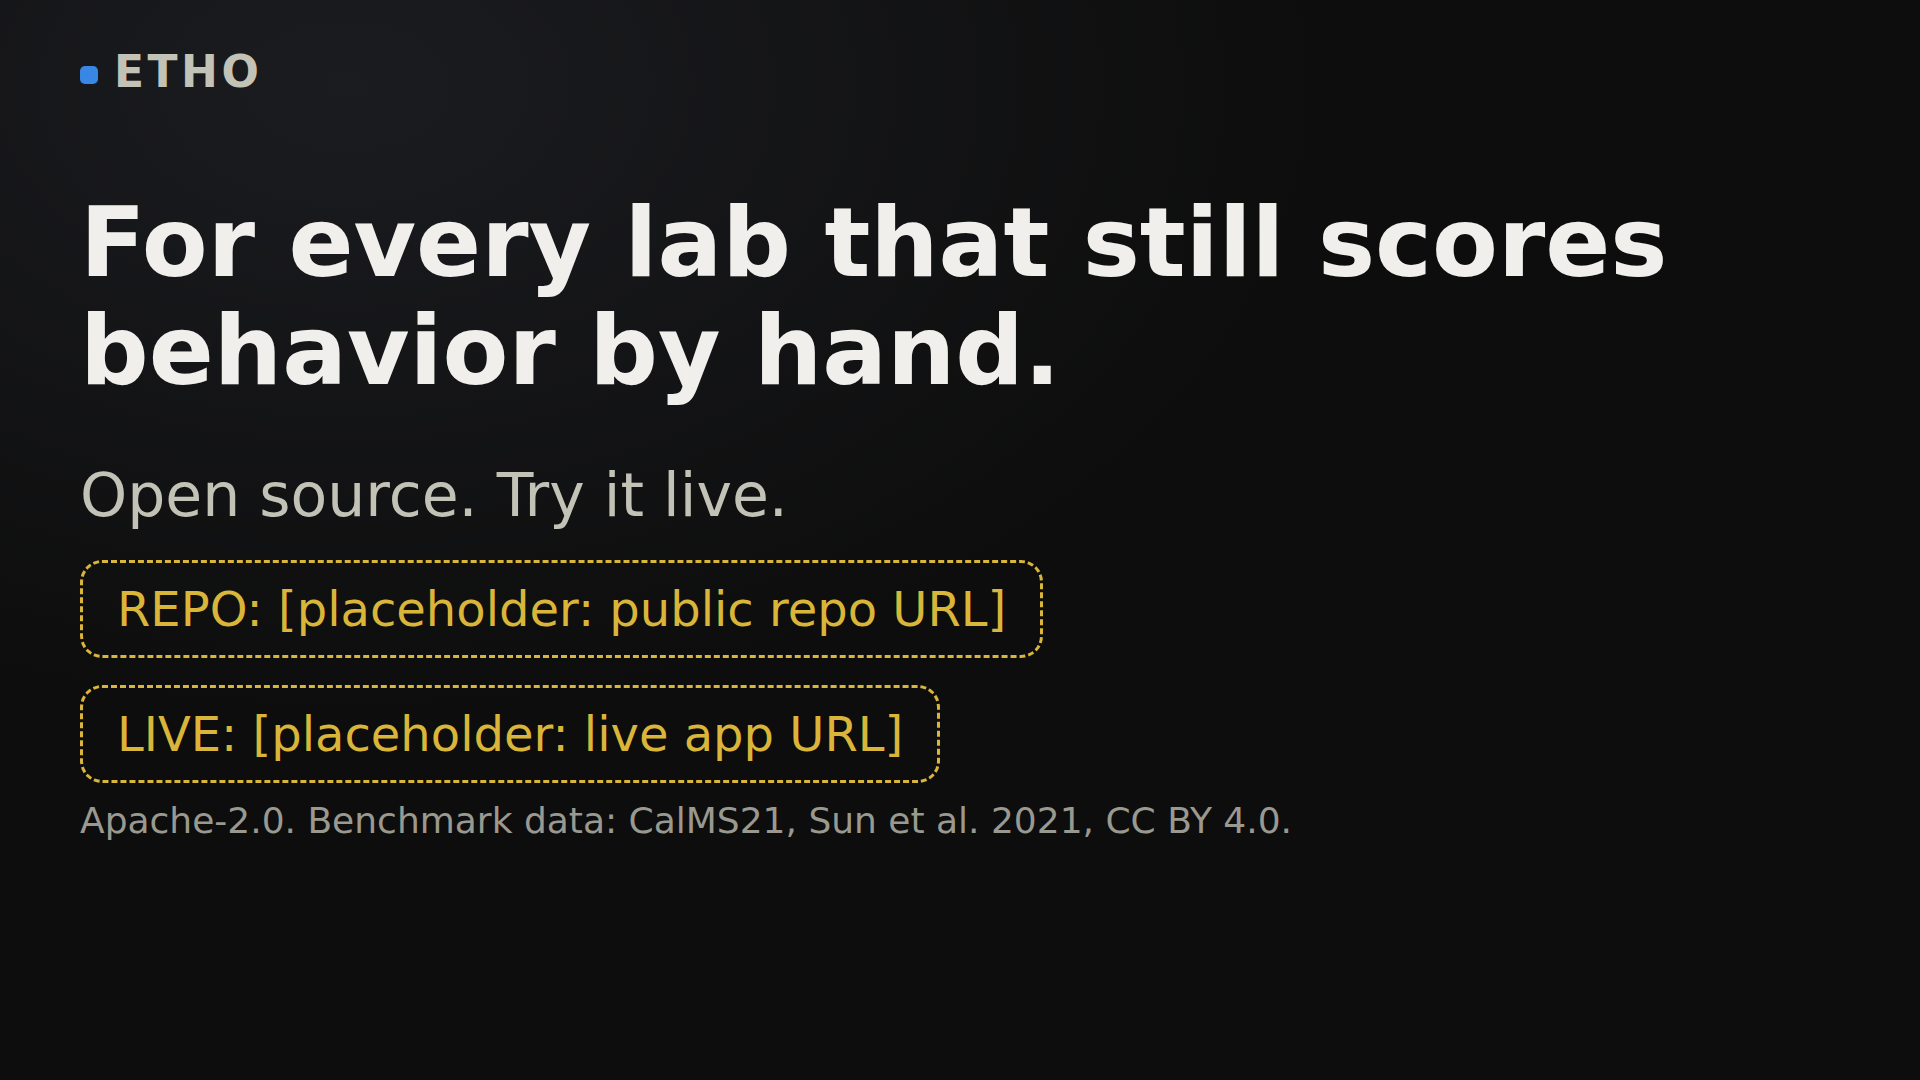
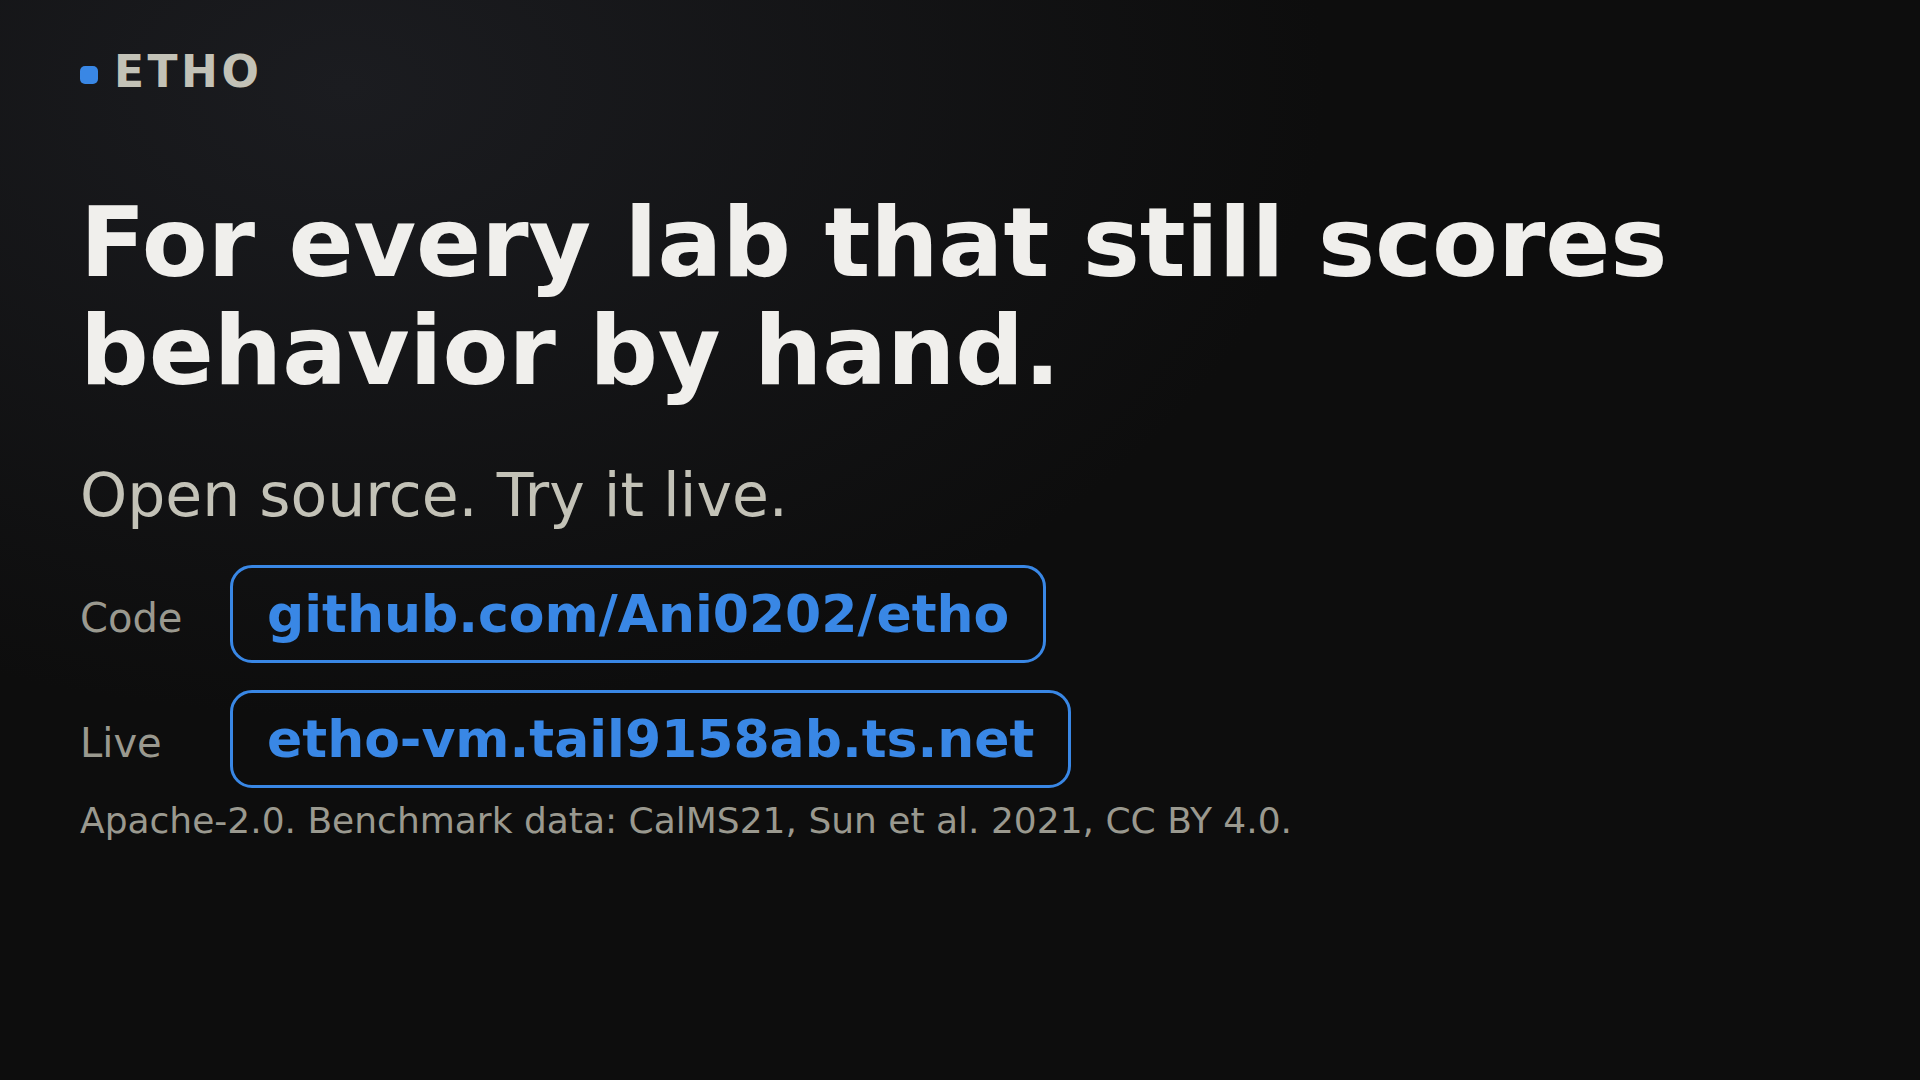
Final cut review fixes: live-run cut follows the VO sentences, real repo/live links on closing cards, close beat = model stack + closing (no overlap), no black dips (opening/results fades removed), code beat without duplicate diagram, correction beat without the other bout's trace, evidence tiles hi
Claude-Session: https://claude.ai/code/session_014u5C9Xa8ndRph4b9XuRXbh

Changed region(s): [[0.0312, 0.5194, 0.5625, 0.7333]]

diff --git a/video/cards.py b/video/cards.py
@@ -143,18 +143,18 @@ def evidence_html(N: Numbers) -> str:
     sub = f"font-size:44px;color:{C.TEXT2};line-height:1.25"
     return page(f"""
 <div class=brand style='top:30px'><i></i>ETHO</div>
-<div class=tile style='left:60px;top:96px;width:1190px;height:360px;padding-top:22px'>
+<div class=tile id=tEtho style='left:60px;top:96px;width:1190px;height:360px;padding-top:22px'>
  <div style='{lab}'>Etho, macro F1, no training&sup1;</div>
  <div style='display:flex;align-items:center;gap:30px;margin-top:20px'>
   <div style='font-size:200px;font-weight:700;line-height:1;color:{C.ACCENT}'>{N.s('macro_f1')}</div>
   <div style='flex:1'>{chips}</div></div></div>
-<div class=tile style='left:1280px;top:96px;width:580px;height:360px;padding-top:22px'>
+<div class=tile id=tSup style='left:1280px;top:96px;width:580px;height:360px;padding-top:22px'>
  <div style='{lab}'>Supervised, trained on labeled data and pose keypoints</div>
  <div style='font-size:86px;font-weight:700;line-height:1.1;margin-top:16px;color:{C.MUTED};
 white-space:nowrap'>{N.s('sup_lo')}&ndash;{N.s('sup_hi')}</div>
  <div style='{sub};color:{C.MUTED};white-space:nowrap'>{N.s('sup_1dconv')} &middot; {N.s('sup_taskprog')} &middot;
 {N.s('sup_mabe_top1')}</div></div>
-<div class=tile style='left:60px;top:472px;width:1800px;height:316px;display:flex;padding:20px 20px'>
+<div class=tile id=tRun style='left:60px;top:472px;width:1800px;height:316px;display:flex;padding:20px 20px'>
  <div style='{col}'><div style='{lab}'>Etho speed</div><div style='{big}'>{N.s('speed_pooled')}&times;</div>
   <div style='{sub}'>real time (worst {N.s('speed_worst')}&times;)</div></div>
  <div style='{col}'><div style='{lab}'>Manual scoring takes</div>
@@ -167,6 +167,16 @@ white-space:nowrap'>{N.s('sup_lo')}&ndash;{N.s('sup_hi')}</div>
 line-height:1.2'>&sup1; {foot}</div>
 """)
 
+
+
+EVIDENCE_TILES = ("tEtho", "tSup", "tRun")
+
+
+def evidence_focus_html(N: Numbers, focus: str) -> str:
+    """The evidence card with one tile in focus and the other two dimmed, so the eye follows the voice-over
+    (accuracy, then supervised baselines, then speed and cost). Same text and numbers as `evidence_html`."""
+    dim = ",".join(f"#{t}" for t in EVIDENCE_TILES if t != focus)
+    return evidence_html(N).replace("</body>", f"<style>{dim}{{opacity:.32}}</style></body>", 1)
 
 # ------------------------------------------------------------------------------------------------------ close
 def close_html(N: Numbers) -> str:
@@ -186,8 +196,8 @@ def close_html(N: Numbers) -> str:
 <div class=abs style='left:80px;top:450px;width:1760px;font-size:76px;font-weight:700;line-height:1.15'>
  For every lab that still scores behavior by hand.</div>
 <div class=abs style='left:80px;top:650px;white-space:nowrap'>
- <span style='{ph}'>REPO: [placeholder: public repo URL]</span><span
- style='{ph}'>LIVE: [placeholder: live app URL]</span></div>
+ <span style='{ph}'>{H.escape(C.REPO_URL_SHOWN)}</span><span
+ style='{ph}'>{H.escape(C.LIVE_URL_SHOWN)}</span></div>
 <div class=abs style='left:80px;top:790px;font-size:36px;color:{C.MUTED}'>Open source, Apache-2.0. Benchmark data:
  {H.escape(C.CREDIT_CARD)}.</div>
 """)
@@ -229,21 +239,27 @@ def model_stack_html(N: Numbers) -> str:
 
 # ---------------------------------------------------------------------------------------------------- closing
 def closing_html(N: Numbers) -> str:
-    ph = ("display:inline-block;margin-right:40px;border:3px dashed {c};border-radius:22px;padding:18px 34px;"
-          "font-size:48px;color:{c}").format(c=C.GOLD)
+    link = ("display:inline-block;border:3px solid {c};border-radius:22px;padding:16px 34px;"
+            "font-size:52px;font-weight:700;color:{c}").format(c=C.ACCENT)
+    lab = f"display:inline-block;width:150px;font-size:40px;color:{C.MUTED}"
     return page(f"""
 <div class=brand><i></i>ETHO</div>
 <div class=abs style='left:80px;top:190px;width:1760px;font-size:96px;font-weight:700;line-height:1.12'>
  For every lab that still scores behavior by hand.</div>
 <div class=abs style='left:80px;top:460px;font-size:60px;color:{C.TEXT2}'>Open source. Try it live.</div>
-<div class=abs style='left:80px;top:560px'><span style='{ph}'>REPO: [placeholder: public repo URL]</span></div>
-<div class=abs style='left:80px;top:685px'><span style='{ph}'>LIVE: [placeholder: live app URL]</span></div>
+<div class=abs style='left:80px;top:565px'><span style='{lab}'>Code</span><span
+ style='{link}'>{H.escape(C.REPO_URL_SHOWN)}</span></div>
+<div class=abs style='left:80px;top:690px'><span style='{lab}'>Live</span><span
+ style='{link}'>{H.escape(C.LIVE_URL_SHOWN)}</span></div>
 <div class=abs style='left:80px;top:800px;font-size:36px;color:{C.MUTED}'>Apache-2.0. Benchmark data:
  {H.escape(C.CREDIT_CARD)}.</div>
 """)
 
 
-CARDS = {"title": title_html, "evidence": evidence_html, "close": close_html, "model_stack": model_stack_html,
+CARDS = {"title": title_html, "evidence": evidence_html,
+         "evidence_etho": lambda N: evidence_focus_html(N, "tEtho"),
+         "evidence_sup": lambda N: evidence_focus_html(N, "tSup"),
+         "evidence_run": lambda N: evidence_focus_html(N, "tRun"), "close": close_html, "model_stack": model_stack_html,
          "closing": closing_html}
 
 # docs/video_assets/<name>.png <- card name (committed copies for the video app; numbers come from Numbers)

diff --git a/video/capture/cut_live_run.py b/video/capture/cut_live_run.py
@@ -18,13 +18,16 @@ FONT = "/usr/share/fonts/truetype/dejavu/DejaVuSans-Bold.ttf"
 TAG_S = 1.0
 
 # (label, raw_in, raw_out)
+# Order and lengths follow the final voice-over's sentence times in this beat (docs/demo_captions_final.srt, beat
+# start 35.0 s): "This is a test video..." 0.5-3.8, "I paste the dataset authors' own definitions..." 4.6-9.5,
+# "Muse Spark decides what to track." 10.0-11.9, "SAM 3.1 follows both mice..." 12.5-17.8, "Muse Spark turns each
+# definition into a short Python rule, and Muse Spark Open double-checks..." 18.5-27.1. Chronological, no backward cut.
 SEGMENTS = [
-    ("paste: attack definition cleared, then pasted", 20.2, 21.7),
-    ("upload picked, cost estimate, Score clicked, run clock starts", 45.5, 48.5),
-    ("progress page, last seconds of the run (clock 3:05 to 3:08)", 232.9, 236.4),
-    ("planner card (phrases proposed, CHOSEN one)", 241.8, 248.8),
-    ("overlay playing, both mice tracked, close contact at about 0:05", 252.6, 261.6),
-    ("per-stage timing and cost card", 265.5, 270.5),
+    ("form being filled in (subject field)", 7.0, 10.0),
+    ("paste: attack definition cleared, then pasted", 20.2, 24.8),
+    ("the test video picked (mouse075_0-300s_h264.mp4, 5:00), Score clicked, run clock starts", 45.7, 48.5),
+    ("planner card (phrases proposed, CHOSEN one)", 241.8, 243.8),
+    ("overlay playing (both mice tracked through contact), scroll to the per-stage timing and cost card", 252.6, 269.2),
 ]
 TOTAL_S = 29.0
 

diff --git a/tests/test_video_capture.py b/tests/test_video_capture.py
@@ -90,8 +90,8 @@ cut = _load("cut_live_run")
 def test_cut_is_29_seconds_and_tagged_at_every_skip():
     cl = cut.cut_list()
     assert cl["total_s"] == cut.TOTAL_S == 29.0
-    assert [r["tag"] for r in cl["segments"]] == [None, "time skipped 0:24", "time skipped 3:04", "time skipped 0:05",
-                                                  "time skipped 0:04", "time skipped 0:04"]
+    assert [r["tag"] for r in cl["segments"]] == [None, "time skipped 0:10", "time skipped 0:21", "time skipped 3:13",
+                                                  "time skipped 0:09"]
     raw_in = [r["raw_in"] for r in cl["segments"]]
     assert raw_in == sorted(raw_in)                               # chronological: no backward cut
     assert all(r["raw_out"] <= 271.7 and r["raw_in"] >= 0 for r in cl["segments"])
@@ -101,7 +101,7 @@ def test_cut_is_29_seconds_and_tagged_at_every_skip():
 
 def test_cut_filter_graph_has_one_input_per_segment_and_a_tag_per_skip():
     g = cut.filter_graph()
-    assert g.count("concat=n=6") == 1 and g.count("drawtext") == 5
-    assert "[5:v]" in g and "[6:v]" not in g
+    assert g.count("concat=n=5") == 1 and g.count("drawtext") == 4
+    assert "[4:v]" in g and "[5:v]" not in g
     args = cut.inputs("raw.mp4")
-    assert args.count("-i") == 6 and args[:4] == ["-ss", "20.2", "-t", "1.500"]
+    assert args.count("-i") == 5 and args[:4] == ["-ss", "7.0", "-t", "3.000"]

diff --git a/video/anim.py b/video/anim.py
@@ -148,11 +148,12 @@ def render_opening(out: Path, credit: bool = True) -> list[np.ndarray]:
     keep = []
     for k in range(n):
         t = OPEN_T0 + k / C.FPS
-        f = min(1.0, k / 6, (n - 1 - k) / 6)           # short fade in/out so it crossfades cleanly
+        # no fade: the hook starts on motion, and the assembler's crossfade joins it to the title card (a fade-out
+        # here left a black frame at 0:04, because the assembler holds the last frame through the crossfade)
         fr = compose_opening_frame(base, rd.frame_at(t), t, sc, codes_e, static, fade=1.0)
         if k in (n // 2, n - 1):
             keep.append(fr)
-        pipe.write((fr.astype(np.float32) * ease(f)).astype(np.uint8) if f < 1.0 else fr)
+        pipe.write(fr)
     pipe.close()
     return keep
 
@@ -275,8 +276,8 @@ def render_results_frame(t: float, sc: dict, static: np.ndarray, badge: np.ndarr
     draw.blit(img, static)
     if t >= BADGE_AT:
         draw.blit(img, badge, 180, 132, opacity=ease((t - BADGE_AT) / 0.6))
-    f = min(1.0, t / 0.5, (RES_DUR - t) / 0.5)
-    return img if f >= 1 else (img.astype(np.float32) * f).astype(np.uint8)
+    # no fade in/out: the assembler crossfades each piece into the next (a fade here dipped to black at 1:21 and 1:40)
+    return img
 
 
 def render_results(out: Path, N=None) -> list[np.ndarray]:

diff --git a/video/assemble.py b/video/assemble.py
@@ -79,9 +79,13 @@ PLAN = {
     "results": [("Etho vs expert ethogram, score badge, zoom to the traced error", "results_beat", 20.0),
                 ("trace panel (capture)", "cap:trace", 9.0)],
     "correction": [("correction loop (app capture)", "cap:correction", 10.0)],
-    "evidence": [("evidence card", "card:evidence", 26.0)],
+    # tiles highlighted in step with the voice-over sentences (accuracy, supervised, speed/cost), then the whole card
+    "evidence": [("evidence card, accuracy tile in focus", "card:evidence_etho", 4.6),
+                 ("evidence card, supervised tile in focus", "card:evidence_sup", 6.2),
+                 ("evidence card, speed and cost tile in focus", "card:evidence_run", 6.6),
+                 ("evidence card", "card:evidence", 8.6)],
     "fly": [("second species (qualitative, no score)", "cap:fly", 15.0)],
-    "close": [("close card", "card:close", 15.0)],
+    "close": [("model stack card", "card:model_stack", 6.0), ("closing card with links", "card:closing", 9.0)],
 }
 
 SLATE_HINTS = {

diff --git a/video/tests/test_numbers.py b/video/tests/test_numbers.py
@@ -82,11 +82,13 @@ def test_title_card_has_required_text(N):
     assert "Etho" in t and "Push the Frontier" in t and "Training-free" in t
 
 
-def test_close_card_has_models_and_placeholders(N):
+def test_close_and_closing_cards_have_models_and_real_links(N):
     t = cards.card_text(cards.close_html(N))
     for s in ("SAM 3.1", "Muse Spark", "Muse Spark Open", "for every lab that still scores behavior by hand",
-              "[placeholder: public repo URL]", "[placeholder: live app URL]"):
+              "github.com/Ani0202/etho", "etho-vm.tail9158ab.ts.net"):
         assert s.lower() in t.lower(), s
+    c = cards.card_text(cards.closing_html(N))
+    assert "github.com/Ani0202/etho" in c and "etho-vm.tail9158ab.ts.net" in c and "placeholder" not in c.lower()
 
 
 def test_clip_numbers_come_from_the_selected_run(N):

diff --git a/video/common.py b/video/common.py
@@ -94,3 +94,7 @@ def html_to_png(html: str, out: Path, w: int = W, h: int = H, transparent: bool 
         raise RuntimeError(f"headless Chromium kept truncating the screenshot: {out}")
     src.unlink(missing_ok=True)
     return out
+
+# Links on the closing cards (shown without https://). The repo becomes public when Aniket flips it before submitting.
+REPO_URL_SHOWN = "github.com/Ani0202/etho"
+LIVE_URL_SHOWN = "etho-vm.tail9158ab.ts.net"

diff --git a/video/README.md b/video/README.md
@@ -37,3 +37,9 @@ beats give back spare time down to their own minimum; over 180.0 s it stops and 
 never sped up). Captions: one per v5 sentence, timed from the k-1 longest pauses (silencedetect, >= 0.25 s) or, if there
 are too few, split by word count (printed per beat); a sentence over two lines becomes several cues.
 `--vo-dir DIR --out-dir DIR` redirect inputs/outputs (dry runs). `uv run pytest video/tests/test_vo.py` needs only ffmpeg.
+
+- Nov 3 final-cut edits made with ffmpeg on the capture files (gitignored), after the review of final_v1:
+  - `capture/code.mp4` = `code_full.mp4` from 3.4 s, 13.6 s at 1.36x (drops the duplicate architecture intro; the
+    diagram has its own 7 s piece).
+  - `capture/correction.mp4` = `correction_full.mp4` 3.0-5.0 s + 6.8-14.8 s (skips the trace panel of another bout).
+  - `capture/live_run.mp4` is cut by `video/capture/cut_live_run.py`, with segments timed to the voice-over sentences.
